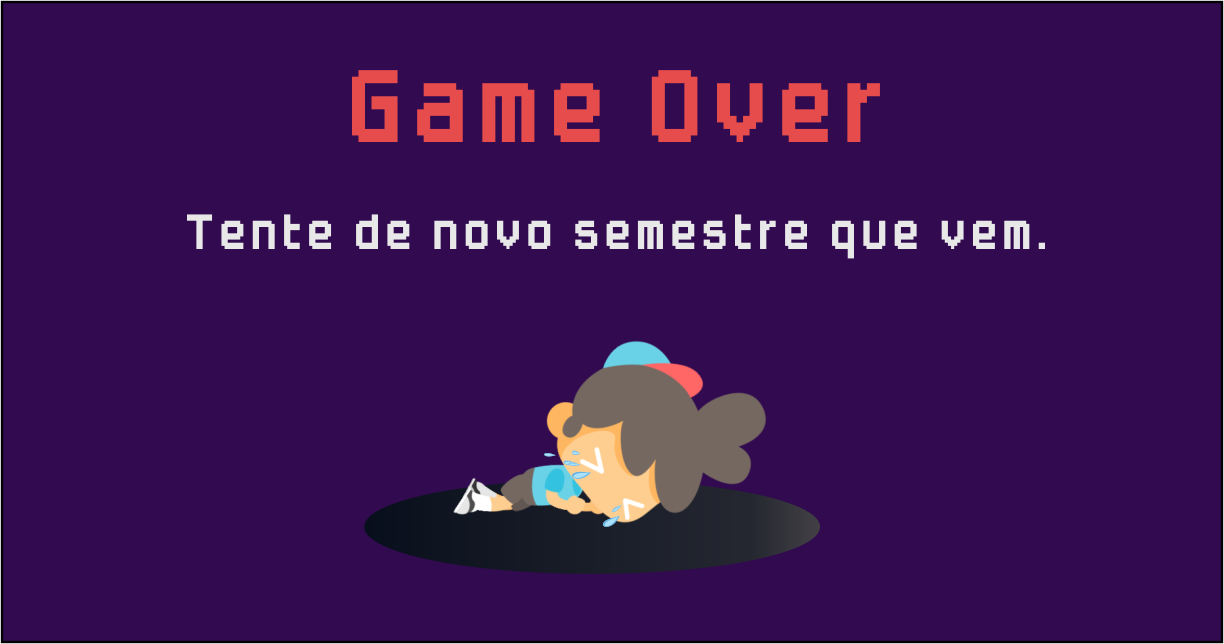
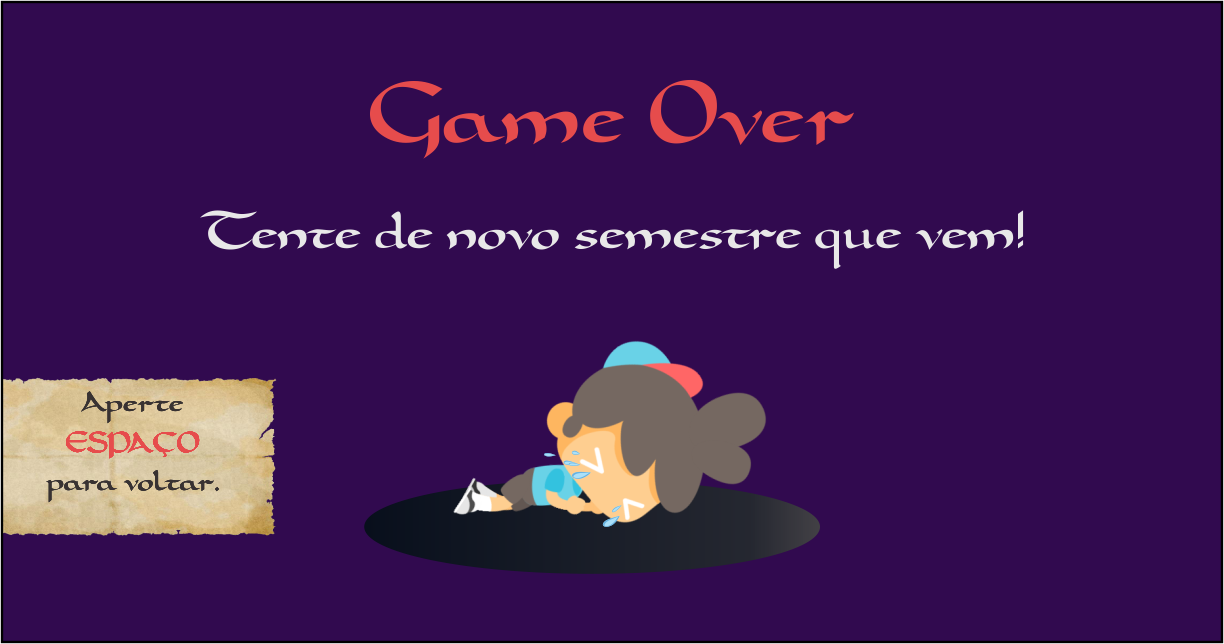
ajuestes na main screen e game over

Changed region(s): [[0.0, 0.5901, 0.2484, 0.8385], [0.2794, 0.0932, 0.7451, 0.2484], [0.1552, 0.3106, 0.8693, 0.4037]]

diff --git a/Game/src/scenes/game-over.ts b/Game/src/scenes/game-over.ts
@@ -1,14 +1,13 @@
-import { Animation } from '../core/animation';
 import { Loader } from '../core/loader';
-import { AUTO, GameObjects, Input } from "phaser";
-import config from "../config";
-import { Action } from '../core/actions/action';
+import { Input } from 'phaser';
 
 
 export default class GameOverScene extends Phaser.Scene {
     public constructor(key) {
         super(key);
     }
+
+    public cursorKeys: Input.Keyboard.CursorKeys;
 
     public init() {
 
@@ -19,5 +18,14 @@ export default class GameOverScene extends Phaser.Scene {
     }
     public create() {
         this.add.tileSprite(625, 320, 1250, 640, 'gameOver');
+
+        this.cursorKeys = this.input.keyboard.createCursorKeys();  
+
+        this.cursorKeys.space.on('down', () => {
+            // this.game.scene.wake('Main');
+            // this.game.scene.sleep('GameOver');
+
+            this.game.scene.switch('GameOver', 'Main');
+        });
     }
 }

diff --git a/Game/src/core/hero.ts b/Game/src/core/hero.ts
@@ -8,12 +8,14 @@ export class Hero {
     public speed: number;
     public jumpSpeed: number;
     public animations: Phaser.GameObjects.Components.Animation;
-    public life = 3;
+    public life: number;
 
     public lookingAt: 'back' | 'front';
 
     constructor(public _gameScene: Phaser.Scene) {
         this.lookingAt = 'front';
+
+        this.life = 3;
 
         const gamePhysics = this._gameScene.physics;
 
@@ -33,8 +35,15 @@ export class Hero {
         this.life = this.life - 1;
 
         if (this.life < 1) {
-            this._gameScene.game.scene.start('GameOver');
-            this._gameScene.game.scene.remove('Game');
+
+            this.life = 3;
+
+            //debugger;
+            // this._gameScene.game.scene.start('GameOver');
+            // this._gameScene.game.scene.sleep('Game');
+
+            this._gameScene.game.scene.switch('Game', 'GameOver');
+
         }
     }
 }

diff --git a/Game/src/scenes/main.ts b/Game/src/scenes/main.ts
@@ -1,0 +1,35 @@
+import { Loader } from '../core/loader';
+import { AUTO, Input } from 'phaser';
+
+
+export default class MainScreenScene extends Phaser.Scene {
+
+    public cursorKeys: Input.Keyboard.CursorKeys;
+
+    public constructor(key) {
+        super(key);
+    }
+
+    public init() {
+
+    }
+
+    public preload() {
+        new Loader(this.load);
+    }
+
+    public create() {
+        this.add.tileSprite(625, 320, 1250, 640, 'main');
+
+        this.cursorKeys = this.input.keyboard.createCursorKeys();
+
+        this.cursorKeys.space.on('down', () => {
+            // this.game.scene.start('Game');
+            // this.game.scene.sleep('Main');
+
+            this.game.scene.switch('Main', 'Game');
+            let scene = this.game.scene.getScene('Game');
+        });
+
+    }
+}

diff --git a/Game/src/index.js b/Game/src/index.js
@@ -2,13 +2,16 @@ import Phaser from "phaser";
 import config from "./config";
 import GameScene from "./scenes/Game";
 import GameOverScene from './scenes/game-over';
+import MainScreenScene from './scenes/main';
 
 class Game extends Phaser.Game {
   constructor() {
     super(config);
     this.scene.add("Game", GameScene);
     this.scene.add("GameOver", GameOverScene);
-    this.scene.start("Game");
+    this.scene.add("Main", MainScreenScene);
+   // this.scene.start("Game");
+    this.scene.start("Main");
   }
 }
 

diff --git a/Game/src/assets/assets.js b/Game/src/assets/assets.js
@@ -11,6 +11,7 @@ import snowmage from "./images/snow_mage.png";
 import bug from "./images/bug.png";
 import bg from "./images/bg.jpg";
 import gameOver from "./images/game-over.png";
+import main from "./images/main.png";
 
 export default {
     imgBarrel: imgBarrel,
@@ -24,6 +25,7 @@ export default {
     snowmage: snowmage,
     bug: bug,
     bg: bg,
-    gameOver: gameOver
+    gameOver: gameOver,
+    main: main
 };
 

diff --git a/Game/src/core/loader.ts b/Game/src/core/loader.ts
@@ -13,6 +13,7 @@ export class Loader {
         loadPlugin.image("bug", assets.bug);
         loadPlugin.image("bg", assets.bg);
         loadPlugin.image("gameOver", assets.gameOver);
+        loadPlugin.image("main", assets.main);
 
         loadPlugin.atlas('player-walking', 'src/assets/images/walk.png', 'src/assets/json/walk.json');
 
